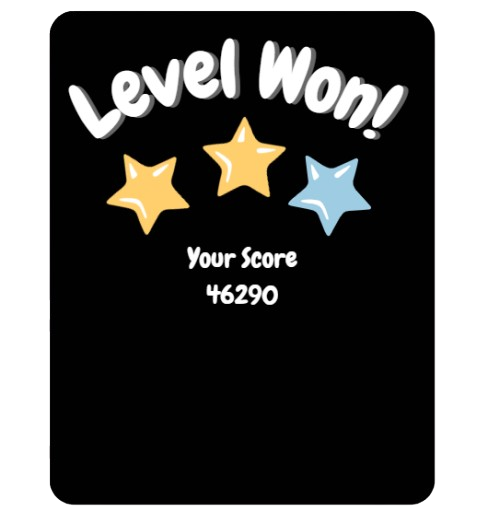
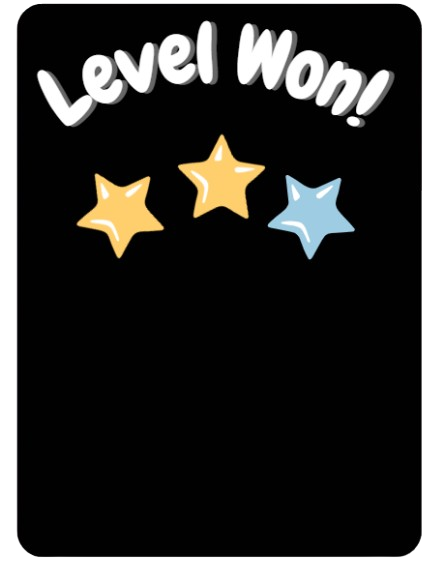
Added score

Changed region(s): [[0.0292, 0.0, 0.964, 1.0], [0.3798, 0.4688, 0.6135, 0.5938]]

diff --git a/core/src/main/java/io/github/some_example_name/setUp/WindowCreator.java b/core/src/main/java/io/github/some_example_name/setUp/WindowCreator.java
@@ -9,22 +9,27 @@ import com.badlogic.gdx.graphics.Texture;
 import com.badlogic.gdx.graphics.g2d.BitmapFont;
 import com.badlogic.gdx.scenes.scene2d.InputEvent;
 import com.badlogic.gdx.scenes.scene2d.Stage;
+import com.badlogic.gdx.scenes.scene2d.ui.Label;
 import com.badlogic.gdx.scenes.scene2d.ui.TextButton;
 import com.badlogic.gdx.scenes.scene2d.ui.Window;
 import com.badlogic.gdx.scenes.scene2d.utils.ClickListener;
 import com.badlogic.gdx.scenes.scene2d.utils.TextureRegionDrawable;
+import com.badlogic.gdx.utils.Align;
 import io.github.some_example_name.screens.GameScreen;
 import io.github.some_example_name.screens.LevelSelectionScreen;
 import io.github.some_example_name.screens.Main;
 import io.github.some_example_name.screens.MainMenuScreen;
 
 public class WindowCreator {
-    LevelManager levelManager;
+    public static LevelManager levelManager;
+    public static float score;
+    public static Window winWindow;
+    public static Window loseWindow;
     public WindowCreator(LevelManager levelManager){
         this.levelManager=levelManager;
     }
 
-    public Window createPauseWindow(BitmapFont font, TextButton musiconoffButton, Stage stage, Main game, int level){
+    public static Window createPauseWindow(BitmapFont font, TextButton musiconoffButton, Stage stage, Main game, int level){
         Texture backgroundTexture = new Texture("abs/PauseWindowBackground (3).png");
         TextureRegionDrawable backgroundDrawable = new TextureRegionDrawable(backgroundTexture);
 
@@ -73,7 +78,7 @@ public class WindowCreator {
 
         return pauseWindow;
     }
-    public Window createWinWindow(TextButton nextLevelButton, int level, Main game, Stage stage, BitmapFont font) {
+    static Window createWinWindow(TextButton nextLevelButton, int level, Main game, Stage stage, BitmapFont font) {
         Texture backgroundTexture = new Texture("abs/WinWindowBackground.png");
         TextureRegionDrawable backgroundDrawable = new TextureRegionDrawable(backgroundTexture);
 
@@ -82,7 +87,7 @@ public class WindowCreator {
         winWindowStyle.titleFontColor = Color.WHITE;
         winWindowStyle.background = backgroundDrawable;
 
-        Window winWindow = new Window("", winWindowStyle);
+        winWindow = new Window("", winWindowStyle);
         winWindow.setVisible(false);
 
         TextButton backButton = new TextButton("", createButtonStyle("abs/BackButton.png", font));
@@ -137,7 +142,7 @@ public class WindowCreator {
         return winWindow;
     }
 
-    public Window createLoseWindow(int level, Main game, Stage stage, BitmapFont font) {
+    static Window createLoseWindow(int level, Main game, Stage stage, BitmapFont font) {
         Texture backgroundTexture = new Texture("abs/LoseWindowBackground.png");
         TextureRegionDrawable backgroundDrawable = new TextureRegionDrawable(backgroundTexture);
 
@@ -146,7 +151,7 @@ public class WindowCreator {
         loseWindowStyle.titleFontColor = Color.WHITE;
         loseWindowStyle.background = backgroundDrawable;
 
-        Window loseWindow = new Window("", loseWindowStyle);
+        loseWindow = new Window("", loseWindowStyle);
         loseWindow.setVisible(false);
 
         TextButton restartButton = new TextButton("", createButtonStyle("abs/RestartButton.png", font));
@@ -188,6 +193,33 @@ public class WindowCreator {
         stage.addActor(loseWindow);
 
         return loseWindow;
+    }
+    public static void showScore(BitmapFont font, boolean isWon){
+        score=CollisionManager.getScore();
+
+        // Create the score text
+        String scoreText = "Your Score is: " + (int)CollisionManager.getScore();
+        Label.LabelStyle labelStyle = new Label.LabelStyle();
+        labelStyle.font = font;
+        labelStyle.fontColor = Color.WHITE;
+
+        Label scoreLabel = new Label(scoreText, labelStyle);
+        if(isWon) {
+            scoreLabel.setAlignment(Align.center); // Center-align the text
+            scoreLabel.setPosition(
+                winWindow.getWidth() / 2f - scoreLabel.getWidth() / 2f,
+                winWindow.getHeight() / 3.2f
+            );
+        winWindow.addActor(scoreLabel);
+        }
+        else {
+            scoreLabel.setAlignment(Align.center); // Center-align the text
+            scoreLabel.setPosition(
+                loseWindow.getWidth() / 2f - scoreLabel.getWidth() / 2f,
+                loseWindow.getHeight() / 3.2f
+            );
+        loseWindow.addActor(scoreLabel);
+        }
     }
 
     public static TextButton.TextButtonStyle createButtonStyle(String buttonName, BitmapFont font) {

diff --git a/core/src/main/java/io/github/some_example_name/setUp/CollisionManager.java b/core/src/main/java/io/github/some_example_name/setUp/CollisionManager.java
@@ -13,7 +13,9 @@ import static io.github.some_example_name.screens.GameScreen.DAMAGE_MULTIPLIER;
 
 public class CollisionManager {
 
-    public static CollisionReturnStruct show(World world, int level) {
+    private static float totalDamage;
+    public static CollisionReturnStruct show(World world, int level, float damage) {
+        totalDamage=damage;
         AssetManager assetManager = new AssetManager();
         assetManager.load("GameBackground.png", Texture.class);
         assetManager.finishLoading();
@@ -48,34 +50,13 @@ public class CollisionManager {
             public void preSolve(Contact contact, Manifold oldManifold) {}
 
             @Override
-            public void postSolve(Contact contact, ContactImpulse impulse) {
-                Object userDataA = contact.getFixtureA().getBody().getUserData();
-                Object userDataB = contact.getFixtureB().getBody().getUserData();
-                float collisionForce = impulse.getNormalImpulses()[0];
-
-                if (userDataA instanceof Pig) {
-                    System.out.println("A");
-                    ((Pig) userDataA).reduceHP(collisionForce * DAMAGE_MULTIPLIER);
-                }
-                else if (userDataA instanceof Block) {
-                    System.out.println("B");
-                    ((Block) userDataA).reduceHP(collisionForce * DAMAGE_MULTIPLIER);
-                }
-                if (userDataB instanceof Pig) {
-                    System.out.println("C");
-                    ((Pig) userDataB).reduceHP(collisionForce * DAMAGE_MULTIPLIER);
-                }
-                else if (userDataB instanceof Block) {
-                    System.out.println("D");
-                    ((Block) userDataB).reduceHP(collisionForce * DAMAGE_MULTIPLIER);
-                }
-            }
+            public void postSolve(Contact contact, ContactImpulse impulse) {}
         });
 
         // Initialize resources and set up the game for the given level
         System.out.println("Starting level: " + level);
 
-        return new CollisionReturnStruct(assetManager, backgroundTexture);
+        return new CollisionReturnStruct(assetManager, backgroundTexture, totalDamage);
     }
 
     private static void handleCollision(Object userDataA, Object userDataB) {
@@ -103,11 +84,13 @@ public class CollisionManager {
                 Pig pig = (Pig) otherObject;
                 int damage = calculateDamage(kineticEnergy);  // Calculate damage based on KE
                 pig.reduceHP(damage);
+                totalDamage+=damage;
                 System.out.println("Pigs hp reduced by " + damage); // Debugging statement
             } else if (otherObject instanceof Block) {
                 Block block = (Block) otherObject;
                 int damage = calculateDamage(kineticEnergy);  // Calculate damage based on KE
                 block.reduceHP(damage);
+                totalDamage+=damage;
                 System.out.println("Blocks hp reduced by " + damage); // Debugging statement
             }
         }
@@ -120,21 +103,25 @@ public class CollisionManager {
         if (objectA instanceof Pig) {
 //            float damage = collisionForce * DAMAGE_MULTIPLIER;
             ((Pig) objectA).reduceHP(damage);
+            totalDamage+=damage;
             System.out.println("Pig damaged by: " + damage);
         }
         else if (objectA instanceof Block) {
 //            float damage = collisionForce * DAMAGE_MULTIPLIER;
             ((Block) objectA).reduceHP(damage);
+            totalDamage+=damage;
             System.out.println("Block damaged by: " + damage);
         }
         if (objectB instanceof Pig) {
 //            float damage = collisionForce * DAMAGE_MULTIPLIER;
             ((Pig) objectB).reduceHP(damage);
+            totalDamage+=damage;
             System.out.println("Pig damaged by: " + damage);
         }
         else if (objectB instanceof Block) {
 //            float damage = collisionForce * DAMAGE_MULTIPLIER;
             ((Block) objectB).reduceHP(damage);
+            totalDamage+=damage;
             System.out.println("Block damaged by: " + damage);
         }
     }
@@ -149,5 +136,9 @@ public class CollisionManager {
         // Clamp the damage to a reasonable range (e.g., max damage of 100)
         calculatedDamage = Math.min(calculatedDamage, 100);
         return calculatedDamage;
+    }
+
+    public static float getScore() {
+        return totalDamage;
     }
 }

diff --git a/core/src/main/java/io/github/some_example_name/screens/GameScreen.java b/core/src/main/java/io/github/some_example_name/screens/GameScreen.java
@@ -23,6 +23,7 @@ import io.github.some_example_name.returnStructs.SetUpReturnStruct;
 import io.github.some_example_name.setUp.CollisionManager;
 import io.github.some_example_name.setUp.GameSetUp;
 import io.github.some_example_name.setUp.LevelManager;
+import io.github.some_example_name.setUp.WindowCreator;
 
 import java.util.ArrayList;
 import java.util.List;
@@ -56,14 +57,16 @@ public class GameScreen implements Screen {
     private List<Bird> allBirds;
     private List<Block> allBlocks;
     private List<Pig> allPigs;
-    LevelManager levelManager;
+
+    public float totalDamage=0;
+    public LevelManager levelManager;
     public static final float PIXELS_TO_METERS = 100f;
     public static final float DAMAGE_MULTIPLIER = 0.1f;
-
 
     public GameScreen(Main game, int level) {
         this.game = game;  // Save the reference to the main game object
         this.level = level;  // Save the level number
+//        this.totalDamage = 0;
         isMusicPlaying = game.isMusicPlaying();
 
         SetUpReturnStruct return1 = GameSetUp.initializeGameComponents();
@@ -86,9 +89,10 @@ public class GameScreen implements Screen {
         this.winWindow = return2.winWindow;
         this.loseWindow = return2.loseWindow;
 
-        CollisionReturnStruct return3 = CollisionManager.show(world, level);
+        CollisionReturnStruct return3 = CollisionManager.show(world, level, totalDamage);
         this.assetManager = return3.assetManager;
         this.backgroundTexture = return3.backgroundTexture;
+        this.totalDamage = return3.totalDamage;
 
         ReturnStruct returnStruct = null;
         if(level==1) returnStruct= levelManager.setupWorldObjectsLevel1(world);
@@ -111,9 +115,8 @@ public class GameScreen implements Screen {
         wallLeft.draw(batch);
         wallRight.draw(batch);
         batch.end();
-
-
     }
+
     public void togglePause() {
         isPaused = !isPaused;
         pauseWindow.setVisible(isPaused);
@@ -132,25 +135,26 @@ public class GameScreen implements Screen {
             Timer.schedule(new Timer.Task() {
                 @Override
                 public void run() {
+                    WindowCreator.showScore(font, true);
                     // Code to execute after 2 seconds
                     winWindow.setVisible(true);
                     winWindow.toFront();
                 }
             }, 2f);
         }
-
         else if(birdQueue.isEmpty() && slingshot.isEmpty()){
 
             Timer.schedule(new Timer.Task() {
                 @Override
                 public void run() {
                     if(!isWon[0]) {
+                        WindowCreator.showScore(font, false);
                         // Code to execute after 2 seconds
                         loseWindow.setVisible(true);
                         loseWindow.toFront();
                     }
                 }
-            }, 5f);
+            }, 7f);
         }
         else if (slingshot.isEmpty()) {
             Bird bird = birdQueue.removeFirst();  // Get the next bird from the queue
@@ -164,7 +168,6 @@ public class GameScreen implements Screen {
             b.setInSlingshot(false);  // Enable gravity for birds not in the slingshot
         }
     }
-
 
     private void update() {
         // Assume birds is a list of active birds

diff --git a/core/src/main/java/io/github/some_example_name/setUp/GameSetUp.java b/core/src/main/java/io/github/some_example_name/setUp/GameSetUp.java
@@ -49,10 +49,9 @@ public class GameSetUp {
         stage.addActor(backButton);
 
         // Set up pause, win, and lose windows
-        WindowCreator windowCreator = new WindowCreator(levelManager);
-        pauseWindow = windowCreator.createPauseWindow(font,musiconoffButton,stage,game,level);
-        winWindow = windowCreator.createWinWindow(nextLevelButton, level, game, stage, font);
-        loseWindow = windowCreator.createLoseWindow(level, game, stage, font);
+        pauseWindow = WindowCreator.createPauseWindow(font,musiconoffButton,stage,game,level);
+        winWindow = WindowCreator.createWinWindow(nextLevelButton, level, game, stage, font);
+        loseWindow = WindowCreator.createLoseWindow(level, game, stage, font);
 
         // Configure table layout
         Table table = new Table();

diff --git a/core/src/main/java/io/github/some_example_name/returnStructs/CollisionReturnStruct.java b/core/src/main/java/io/github/some_example_name/returnStructs/CollisionReturnStruct.java
@@ -6,9 +6,11 @@ import com.badlogic.gdx.graphics.Texture;
 public class CollisionReturnStruct {
     public Texture backgroundTexture;
     public AssetManager assetManager;
+    public float totalDamage;
 
-    public CollisionReturnStruct(AssetManager assetManager, Texture backgroundTexture) {
+    public CollisionReturnStruct(AssetManager assetManager, Texture backgroundTexture, float totalDamage) {
         this.assetManager = assetManager;
         this.backgroundTexture = backgroundTexture;
+        this.totalDamage = totalDamage;
     }
 }
